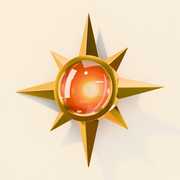
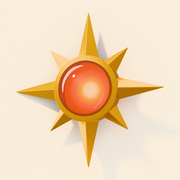
site: show the card alone on a quiet page
The page is the brand's card on its own wall color, a line that says the
tool is in development, and the contact and GitHub links. The header,
the heading and the capture of the product are gone: the product's name
is printed once, in the card. The card is rendered in the brand's new
studio.

Changed region(s): [[0.0833, 0.0833, 0.9167, 0.9167]]

diff --git a/index.html b/index.html
@@ -4,7 +4,7 @@
 <meta charset="utf-8">
 <meta name="viewport" content="width=device-width, initial-scale=1">
 <title>Konrad Rzonca</title>
-<meta name="description" content="Konrad Rzonca publishes Sun Forge, editor tooling that bakes 3D models into game-ready sprites for Unity.">
+<meta name="description" content="Sun Forge, an editor tool for Unity that bakes 3D models into sprites. In development.">
 <link rel="canonical" href="https://konradrzonca.com/">
 <link rel="icon" href="brand/favicon-48.png" type="image/png">
 <link rel="apple-touch-icon" href="brand/apple-touch-icon-180.png">
@@ -12,63 +12,18 @@
 <link rel="stylesheet" href="site.css">
 <meta property="og:type" content="website">
 <meta property="og:title" content="Konrad Rzonca">
-<meta property="og:description" content="Editor tools for Unity. Publisher of Sun Forge.">
+<meta property="og:description" content="An editor tool for Unity, in development.">
 <meta property="og:url" content="https://konradrzonca.com/">
 <meta property="og:image" content="https://konradrzonca.com/brand/og-1200x630.png">
 <meta name="twitter:card" content="summary_large_image">
 </head>
-<body>
-<header class="site-header">
-  <div class="wrap">
-    <a class="wordmark" href=""><img src="brand/mark-128.png" width="36" height="36" alt=""><span>KONRAD <span class="second">RZONCA</span></span></a>
-    <nav class="nav">
-      <a href="#products">Products</a>
-      <a href="#contact">Contact</a>
-    </nav>
-  </div>
-</header>
+<body class="quiet">
 <main>
-  <section class="person wrap">
-    <h1>Konrad <span class="second">Rzonca</span></h1>
-    <p class="lead">Editor tools for Unity, built, published and supported by one developer.</p>
-  </section>
-
-  <section class="wrap" id="products">
-    <h2>Products</h2>
-    <div class="products">
-      <article class="product">
-        <img src="brand/card.png" width="1260" height="840" alt="Sun Forge: a gold compass star with a glowing stone at its heart.">
-        <div class="body">
-          <h2>Sun Forge</h2>
-          <p class="slogan">Bake 3D into 2D. Light 2D like 3D.</p>
-          <p>Bakes 3D models and their animations into game-ready sprites for Unity URP, with normal, mask and height maps and a lighting rig that light them like 3D.</p>
-          <div class="links">
-            
-            
-          </div>
-        </div>
-      </article>
-      <figure class="shot">
-        <img src="images/sun-forge.webp" width="1280" height="720" alt="A forest clearing at dusk: a knight beside a campfire, a fox, glowing mushrooms and trees.">
-        <figcaption>The Sun Forge Feature Showcase. Everything in it is a sprite baked from a 3D model.</figcaption>
-      </figure>
-    </div>
-  </section>
-
-  <section class="contact wrap" id="contact">
-    <h2>Contact</h2>
-    <dl>
-      <dt>Email</dt><dd><a href="mailto:hello@konradrzonca.com">hello@konradrzonca.com</a></dd>
-      <dt>Sun Forge support</dt><dd><a href="mailto:support@sunforgetools.com">support@sunforgetools.com</a></dd>
-      
-      <dt>GitHub</dt><dd><a href="https://github.com/konrad-rzonca">konrad-rzonca</a></dd>
-    </dl>
-  </section>
+  <h1><img class="card" src="brand/card.png" width="1260" height="840" alt="SUN FORGE. Bake 3D into 2D. Light 2D like 3D. A gold compass star with a glowing stone at its heart."></h1>
+  <p class="state">In development</p>
+  <p class="what">An editor tool for Unity, coming to the Asset Store.</p>
+  <nav class="links"><a href="mailto:hello@konradrzonca.com">hello@konradrzonca.com</a><a href="https://github.com/konrad-rzonca">GitHub</a></nav>
 </main>
-<footer class="site-footer">
-  <div class="wrap">
-    <span>&copy; 2026 Konrad Rzonca</span>
-  </div>
-</footer>
+<footer>&copy; 2026 Konrad Rzonca</footer>
 </body>
 </html>

diff --git a/site.css b/site.css
@@ -159,30 +159,37 @@ figure { margin: 0; }
 .prose pre code { border: 0; padding: 0; background: none; }
 .prose strong { color: var(--text-strong); }
 
-/* Publisher page */
-.person { padding-block: 72px 32px; }
-.person h1 { font-size: clamp(40px, 6vw, 64px); line-height: 1; text-transform: uppercase; }
-.person h1 .second { display: block; color: var(--accent); }
-.person .lead { font-size: 19px; max-width: 56ch; }
-.products { display: grid; gap: 20px; padding-block: 16px 56px; }
-.product {
-  display: grid; grid-template-columns: minmax(0, 1fr) minmax(0, 1fr); align-items: center;
-  background: var(--bg-panel); border: 1px solid var(--border-soft); border-radius: 10px; overflow: hidden;
+/* Publisher page: the card on its own wall, and a few quiet lines under it. */
+/* The one column is no wider than the window, whatever the card's own width. */
+.quiet { min-height: 100vh; min-height: 100svh; display: grid; grid-template: 1fr auto / minmax(0, 1fr); text-align: center; }
+.quiet main { align-self: center; padding: 8vh 24px 6vh; }
+/* The card is the page's heading: a screen reader reads its name, and no title is drawn. Its wall
+   is the page's color, and its edges fade out, so the picture has no frame. */
+.quiet h1 { margin: 0; font: inherit; }
+.quiet .card {
+  width: min(100%, 720px); margin: 0 auto;
+  -webkit-mask-image: linear-gradient(to right, transparent, #000 3.5%, #000 96.5%, transparent), linear-gradient(to bottom, transparent, #000 3.5%, #000 96.5%, transparent);
+  -webkit-mask-composite: source-in;
+  mask-image: linear-gradient(to right, transparent, #000 3.5%, #000 96.5%, transparent), linear-gradient(to bottom, transparent, #000 3.5%, #000 96.5%, transparent);
+  mask-composite: intersect;
 }
-.product .body { padding: 24px 28px; }
-.product .slogan { font: 500 18px/1.3 var(--title); color: var(--text-strong); }
-.product h2 { font-size: 22px; }
-.product .links { display: flex; flex-wrap: wrap; gap: 8px 18px; font-size: 15px; }
-.contact { padding-block: 0 72px; }
-.contact dl { display: grid; grid-template-columns: max-content 1fr; gap: 8px 24px; margin: 0; }
-.contact dt { color: var(--text-muted); }
-.contact dd { margin: 0; }
+.quiet .state {
+  margin: 12px 0 14px; font-size: 12px; font-weight: 600; letter-spacing: .22em; text-transform: uppercase; color: var(--accent-strong);
+}
+.quiet .state::before {
+  content: ""; display: inline-block; width: 7px; height: 7px; margin-right: 10px; border-radius: 50%;
+  background: var(--brand-gold); vertical-align: 1px;
+}
+.quiet .what { margin: 0; font-size: 17px; color: var(--text-soft); }
+.quiet .links { display: flex; flex-wrap: wrap; justify-content: center; gap: 8px 28px; margin-top: 44px; font-size: 15px; }
+.quiet .links a { color: var(--text-strong); border-bottom: 1px solid var(--border-strong); padding-bottom: 2px; }
+.quiet .links a:hover { text-decoration: none; border-color: var(--accent); color: var(--accent-strong); }
+.quiet footer { padding: 28px 24px; font-size: 13px; color: var(--text-muted); }
 
 @media (max-width: 820px) {
   .nav a:not(.button) { display: none; }
   .feature { grid-template-columns: minmax(0, 1fr); gap: 24px; padding: 36px 0; }
   .feature:nth-child(even) .copy { order: 0; }
-  .product { grid-template-columns: minmax(0, 1fr); }
   .doc-layout { grid-template-columns: minmax(0, 1fr); gap: 16px; }
   .doc-nav { position: static; }
   .tiles.three { grid-template-columns: minmax(0, 1fr); }

diff --git a/brand/brand.css b/brand/brand.css
@@ -1,7 +1,7 @@
 /* Generated by sunforge-brand/build.py from brand.json. Do not edit. */
 :root {
   --brand-gold: #e8b43c;
-  --brand-wall: #f8eedc;
+  --brand-wall: #f9eedc;
   --brand-ink: #1f1a17;
   --brand-soft: #5a4f48;
   --brand-accent: #c2410c;
